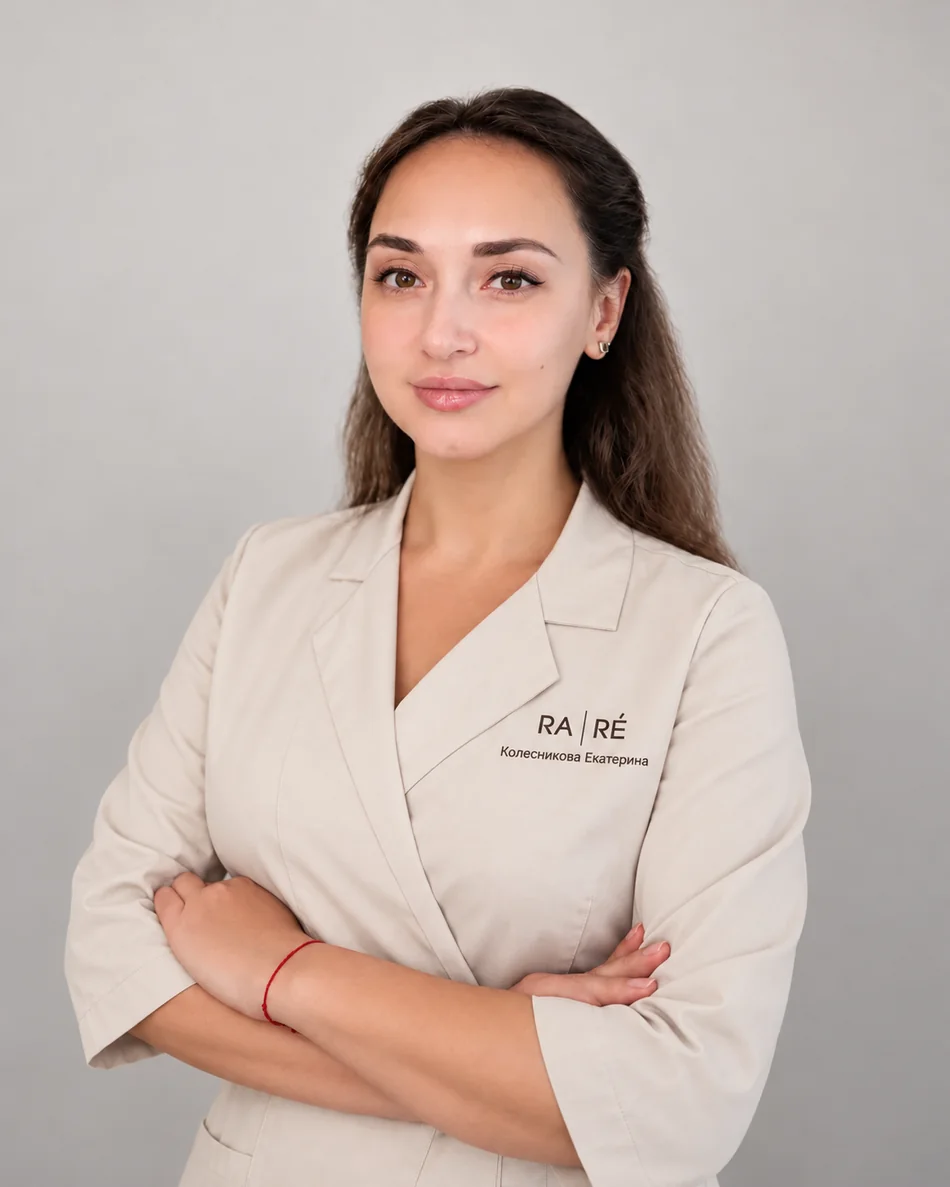
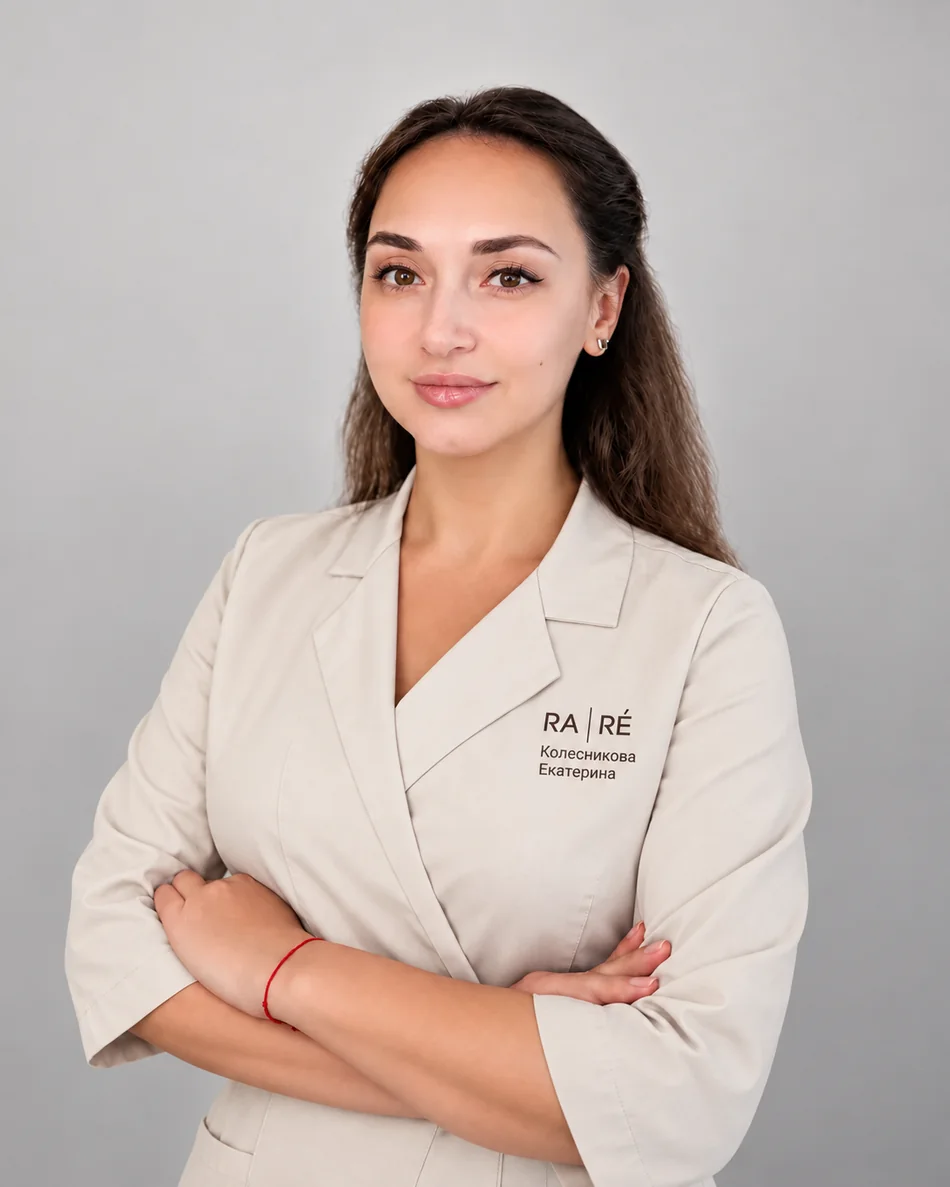
Swap in the client's corrected portrait of Ekaterina

diff --git a/index.html b/index.html
@@ -458,7 +458,7 @@
           <p class="mh-spec-card__role">Косметолог-эстетист, нутрициолог</p>
         </a>
         <a href="specialists/ekaterina-evgenevna.html" class="mh-spec-card">
-          <img src="assets/photos/spec-ekaterina.webp?v=10" alt="Колесникова Екатерина Евгеньевна" loading="lazy" srcset="assets/photos/spec-ekaterina-350.webp?v=10 350w, assets/photos/spec-ekaterina-700.webp?v=10 700w, assets/photos/spec-ekaterina-950.webp?v=10 950w, assets/photos/spec-ekaterina.webp?v=10 1122w" sizes="(max-width: 767px) 350px, (max-width: 1024px) 460px, 468px"/>
+          <img src="assets/photos/spec-ekaterina.webp?v=11" alt="Колесникова Екатерина Евгеньевна" loading="lazy" srcset="assets/photos/spec-ekaterina-350.webp?v=11 350w, assets/photos/spec-ekaterina-700.webp?v=11 700w, assets/photos/spec-ekaterina-950.webp?v=11 950w, assets/photos/spec-ekaterina.webp?v=11 1122w" sizes="(max-width: 767px) 350px, (max-width: 1024px) 460px, 468px"/>
           <p class="mh-spec-card__name">Колесникова Екатерина Евгеньевна</p>
           <p class="mh-spec-card__role">Косметолог-эстетист</p>
         </a>
@@ -1109,7 +1109,7 @@
       <span class="spec-card__view" aria-label="Профиль"><svg viewBox="0 0 24 24" fill="none"><path d="M7 17L17 7M17 7H9M17 7V15" stroke="currentColor" stroke-width="1.8" stroke-linecap="round" stroke-linejoin="round"/></svg></span>
     </a>
     <a href="specialists/ekaterina-evgenevna.html" class="spec-card">
-      <div class="spec-card__photo"><img src="assets/photos/spec-ekaterina.webp?v=10" alt="Колесникова Екатерина Евгеньевна" loading="lazy" srcset="assets/photos/spec-ekaterina-350.webp?v=10 350w, assets/photos/spec-ekaterina-700.webp?v=10 700w, assets/photos/spec-ekaterina-950.webp?v=10 950w, assets/photos/spec-ekaterina.webp?v=10 1122w" sizes="(max-width: 767px) 350px, (max-width: 1024px) 460px, 468px"/></div>
+      <div class="spec-card__photo"><img src="assets/photos/spec-ekaterina.webp?v=11" alt="Колесникова Екатерина Евгеньевна" loading="lazy" srcset="assets/photos/spec-ekaterina-350.webp?v=11 350w, assets/photos/spec-ekaterina-700.webp?v=11 700w, assets/photos/spec-ekaterina-950.webp?v=11 950w, assets/photos/spec-ekaterina.webp?v=11 1122w" sizes="(max-width: 767px) 350px, (max-width: 1024px) 460px, 468px"/></div>
       <p class="spec-card__name">Колесникова Екатерина Евгеньевна</p>
       <p class="spec-card__role">Косметолог-эстетист</p>
       <span class="spec-card__view" aria-label="Профиль"><svg viewBox="0 0 24 24" fill="none"><path d="M7 17L17 7M17 7H9M17 7V15" stroke="currentColor" stroke-width="1.8" stroke-linecap="round" stroke-linejoin="round"/></svg></span>

diff --git a/specialists/index.html b/specialists/index.html
@@ -300,7 +300,7 @@
       <p class="spec-card__role">Косметолог-эстетист, нутрициолог</p>
     </a>
     <a href="ekaterina-evgenevna.html" class="spec-card" data-rr="up" style="--rr-del:0.15s">
-      <img src="../assets/photos/spec-ekaterina.webp?v=10" alt="Колесникова Екатерина Евгеньевна" loading="lazy" srcset="../assets/photos/spec-ekaterina-350.webp?v=10 350w, ../assets/photos/spec-ekaterina-700.webp?v=10 700w, ../assets/photos/spec-ekaterina-950.webp?v=10 950w, ../assets/photos/spec-ekaterina.webp?v=10 1122w" sizes="(max-width: 767px) 350px, (max-width: 1024px) 460px, 468px"/>
+      <img src="../assets/photos/spec-ekaterina.webp?v=11" alt="Колесникова Екатерина Евгеньевна" loading="lazy" srcset="../assets/photos/spec-ekaterina-350.webp?v=11 350w, ../assets/photos/spec-ekaterina-700.webp?v=11 700w, ../assets/photos/spec-ekaterina-950.webp?v=11 950w, ../assets/photos/spec-ekaterina.webp?v=11 1122w" sizes="(max-width: 767px) 350px, (max-width: 1024px) 460px, 468px"/>
       <p class="spec-card__name">Колесникова Екатерина Евгеньевна</p>
       <p class="spec-card__role">Косметолог-эстетист</p>
     </a>
@@ -365,7 +365,7 @@
     <p class="mh-spec-card__role">Косметолог-эстетист, нутрициолог</p>
   </a>
   <a href="ekaterina-evgenevna.html" class="mh-spec-card" data-rr="up" style="--rr-del:0.24s">
-    <img src="../assets/photos/spec-ekaterina.webp?v=10" alt="Колесникова Екатерина Евгеньевна" loading="lazy" srcset="../assets/photos/spec-ekaterina-350.webp?v=10 350w, ../assets/photos/spec-ekaterina-700.webp?v=10 700w, ../assets/photos/spec-ekaterina-950.webp?v=10 950w, ../assets/photos/spec-ekaterina.webp?v=10 1122w" sizes="(max-width: 767px) 350px, (max-width: 1024px) 460px, 468px"/>
+    <img src="../assets/photos/spec-ekaterina.webp?v=11" alt="Колесникова Екатерина Евгеньевна" loading="lazy" srcset="../assets/photos/spec-ekaterina-350.webp?v=11 350w, ../assets/photos/spec-ekaterina-700.webp?v=11 700w, ../assets/photos/spec-ekaterina-950.webp?v=11 950w, ../assets/photos/spec-ekaterina.webp?v=11 1122w" sizes="(max-width: 767px) 350px, (max-width: 1024px) 460px, 468px"/>
     <p class="mh-spec-card__name">Колесникова Екатерина Евгеньевна</p>
     <p class="mh-spec-card__role">Косметолог-эстетист</p>
   </a>

diff --git a/specialists/ksenia-aleksandrovna.html b/specialists/ksenia-aleksandrovna.html
@@ -430,7 +430,7 @@
     <div class="spec-sec-head"><h2 data-rr="up">Другие специалисты</h2></div>
     <div class="spec-others__grid" id="spec-others-cards">
       <a href="ekaterina-evgenevna.html" class="spec-other-card" data-rr="up">
-        <img src="../assets/photos/spec-ekaterina.webp?v=10" alt="Колесникова Екатерина Евгеньевна" loading="lazy" srcset="../assets/photos/spec-ekaterina-350.webp?v=10 350w, ../assets/photos/spec-ekaterina-700.webp?v=10 700w, ../assets/photos/spec-ekaterina-950.webp?v=10 950w, ../assets/photos/spec-ekaterina.webp?v=10 1122w" sizes="(max-width: 767px) 350px, (max-width: 1024px) 460px, 468px"/>
+        <img src="../assets/photos/spec-ekaterina.webp?v=11" alt="Колесникова Екатерина Евгеньевна" loading="lazy" srcset="../assets/photos/spec-ekaterina-350.webp?v=11 350w, ../assets/photos/spec-ekaterina-700.webp?v=11 700w, ../assets/photos/spec-ekaterina-950.webp?v=11 950w, ../assets/photos/spec-ekaterina.webp?v=11 1122w" sizes="(max-width: 767px) 350px, (max-width: 1024px) 460px, 468px"/>
         <p class="spec-other-card__name">Колесникова Екатерина Евгеньевна</p>
         <p class="spec-other-card__role">Косметолог-эстетист</p>
       </a>

diff --git a/specialists/alisa-alekseevna.html b/specialists/alisa-alekseevna.html
@@ -433,7 +433,7 @@
         <p class="spec-other-card__role">Косметолог-эстетист, нутрициолог</p>
       </a>
       <a href="ekaterina-evgenevna.html" class="spec-other-card" data-rr="up" style="--rr-del:0.05s">
-        <img src="../assets/photos/spec-ekaterina.webp?v=10" alt="Колесникова Екатерина Евгеньевна" loading="lazy" srcset="../assets/photos/spec-ekaterina-350.webp?v=10 350w, ../assets/photos/spec-ekaterina-700.webp?v=10 700w, ../assets/photos/spec-ekaterina-950.webp?v=10 950w, ../assets/photos/spec-ekaterina.webp?v=10 1122w" sizes="(max-width: 767px) 350px, (max-width: 1024px) 460px, 468px"/>
+        <img src="../assets/photos/spec-ekaterina.webp?v=11" alt="Колесникова Екатерина Евгеньевна" loading="lazy" srcset="../assets/photos/spec-ekaterina-350.webp?v=11 350w, ../assets/photos/spec-ekaterina-700.webp?v=11 700w, ../assets/photos/spec-ekaterina-950.webp?v=11 950w, ../assets/photos/spec-ekaterina.webp?v=11 1122w" sizes="(max-width: 767px) 350px, (max-width: 1024px) 460px, 468px"/>
         <p class="spec-other-card__name">Колесникова Екатерина Евгеньевна</p>
         <p class="spec-other-card__role">Косметолог-эстетист</p>
       </a>

diff --git a/specialists/mariya-viktorovna.html b/specialists/mariya-viktorovna.html
@@ -438,7 +438,7 @@
         <p class="spec-other-card__role">Косметолог-эстетист, нутрициолог</p>
       </a>
       <a href="ekaterina-evgenevna.html" class="spec-other-card" data-rr="up" style="--rr-del:0.10s">
-        <img src="../assets/photos/spec-ekaterina.webp?v=10" alt="Колесникова Екатерина Евгеньевна" loading="lazy" srcset="../assets/photos/spec-ekaterina-350.webp?v=10 350w, ../assets/photos/spec-ekaterina-700.webp?v=10 700w, ../assets/photos/spec-ekaterina-950.webp?v=10 950w, ../assets/photos/spec-ekaterina.webp?v=10 1122w" sizes="(max-width: 767px) 350px, (max-width: 1024px) 460px, 468px"/>
+        <img src="../assets/photos/spec-ekaterina.webp?v=11" alt="Колесникова Екатерина Евгеньевна" loading="lazy" srcset="../assets/photos/spec-ekaterina-350.webp?v=11 350w, ../assets/photos/spec-ekaterina-700.webp?v=11 700w, ../assets/photos/spec-ekaterina-950.webp?v=11 950w, ../assets/photos/spec-ekaterina.webp?v=11 1122w" sizes="(max-width: 767px) 350px, (max-width: 1024px) 460px, 468px"/>
         <p class="spec-other-card__name">Колесникова Екатерина Евгеньевна</p>
         <p class="spec-other-card__role">Косметолог-эстетист</p>
       </a>

diff --git a/specialists/natalya-vladimirovna.html b/specialists/natalya-vladimirovna.html
@@ -392,7 +392,7 @@
         <p class="spec-other-card__role">Косметолог-эстетист, нутрициолог</p>
       </a>
       <a href="ekaterina-evgenevna.html" class="spec-other-card" data-rr="up" style="--rr-del:0.15s">
-        <img src="../assets/photos/spec-ekaterina.webp?v=10" alt="Колесникова Екатерина Евгеньевна" loading="lazy" srcset="../assets/photos/spec-ekaterina-350.webp?v=10 350w, ../assets/photos/spec-ekaterina-700.webp?v=10 700w, ../assets/photos/spec-ekaterina-950.webp?v=10 950w, ../assets/photos/spec-ekaterina.webp?v=10 1122w" sizes="(max-width: 767px) 350px, (max-width: 1024px) 460px, 468px"/>
+        <img src="../assets/photos/spec-ekaterina.webp?v=11" alt="Колесникова Екатерина Евгеньевна" loading="lazy" srcset="../assets/photos/spec-ekaterina-350.webp?v=11 350w, ../assets/photos/spec-ekaterina-700.webp?v=11 700w, ../assets/photos/spec-ekaterina-950.webp?v=11 950w, ../assets/photos/spec-ekaterina.webp?v=11 1122w" sizes="(max-width: 767px) 350px, (max-width: 1024px) 460px, 468px"/>
         <p class="spec-other-card__name">Колесникова Екатерина Евгеньевна</p>
         <p class="spec-other-card__role">Косметолог-эстетист</p>
       </a>

diff --git a/specialists/ekaterina-evgenevna.html b/specialists/ekaterina-evgenevna.html
@@ -211,7 +211,7 @@
       </a>
     </div>
     <div class="spec-hero__photo" data-rr="img">
-      <img src="../assets/photos/spec-ekaterina.webp?v=10" alt="Колесникова Екатерина Евгеньевна" loading="eager" srcset="../assets/photos/spec-ekaterina-350.webp?v=10 350w, ../assets/photos/spec-ekaterina-700.webp?v=10 700w, ../assets/photos/spec-ekaterina-950.webp?v=10 950w, ../assets/photos/spec-ekaterina.webp?v=10 1122w" sizes="(max-width: 767px) 350px, (max-width: 1024px) 460px, 468px"/>
+      <img src="../assets/photos/spec-ekaterina.webp?v=11" alt="Колесникова Екатерина Евгеньевна" loading="eager" srcset="../assets/photos/spec-ekaterina-350.webp?v=11 350w, ../assets/photos/spec-ekaterina-700.webp?v=11 700w, ../assets/photos/spec-ekaterina-950.webp?v=11 950w, ../assets/photos/spec-ekaterina.webp?v=11 1122w" sizes="(max-width: 767px) 350px, (max-width: 1024px) 460px, 468px"/>
     </div>
   </section>
 
